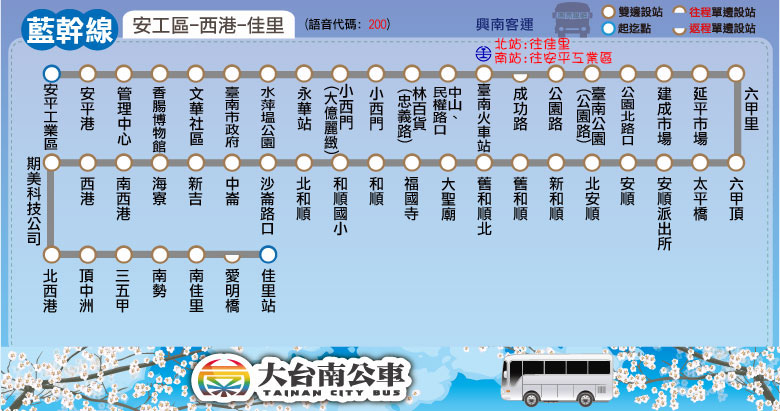
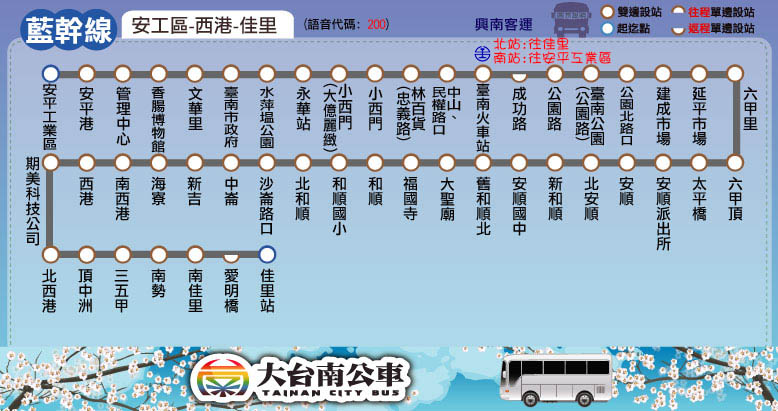
更新站位：藍幹線、橘12

Changed region(s): [[0.0, 0.0, 1.0, 1.0], [0.5553, 0.4964, 0.5861, 0.5255], [0.4319, 0.4964, 0.4627, 0.5255]]

diff --git a/route/fare_and_time/blue.js b/route/fare_and_time/blue.js
@@ -1,18 +1,16 @@
 blue_interval_name = ["安平<br />工業區","臺南","安順","舊和順","和順","中崙","海寮","西港","佳里"];
 blue_interval_stop = [
 ["安平工業區","安平港","管理中心","香腸博物館"], // 安平工業區
-["文華社區","臺南市政府","水萍塭公園","永華站","小西門(大億麗緻)","小西門","林百貨(忠義路)","中山、民權路口",
+["文華里","臺南市政府","水萍塭公園","永華站","小西門(大億麗緻)","小西門","林百貨(忠義路)","中山、民權路口",
 "臺南火車站","成功路","公園路","臺南公園(公園路)","公園北路口","建成市場","延平市場","六甲里","六甲頂"], // 臺南
 ["太平橋","安順派出所","安順","北安順"], // 安順
-["新和順","舊和順","舊和順北","大聖廟"], // 舊和順
+["新和順","安順國中","舊和順北","大聖廟"], // 舊和順
 ["福國寺","和順","和順國小","北和順","沙崙路口"], // 和順
 ["中崙"], // 中崙
 ["新吉","海寮"], // 海寮
 ["南西港","西港","期美科技公司","北西港","頂中洲"], // 西港
 ["三五甲","南勢","南佳里","愛明橋","佳里站"] // 佳里
 ];
-blue_stop_time_consume = [0,1,2,4,5,7,9,10,11,12,15,18,20,22,23,24,25,26,28,29,31,33,34,35,36,37,38,40,41,43,44,45,46,47,48,
-49,52,56,57,59,60,61,63,65,66,68,70];
 blue_fare = [
 [26],
 [26,26],

diff --git a/route/fare_and_time/orange_12.js b/route/fare_and_time/orange_12.js
@@ -15,7 +15,7 @@ orange_12_interval_stop = [
 ["竹林里","鹽行","南鹽行","洲子尾","大崎"], // 鹽行
 ["南臺科技大學","臺電配電中心"], // 南臺科大
 ["奇美醫院","大橋","臺南高工"], // 奇美醫院
-["中華、振興路口","中華、中華二路口","兵仔市","四份子"], // 兵仔市
+["中華、振興路口","中華、中華二路口","中華路、勝華街口","兵仔市","四份子"], // 兵仔市
 ["光明街口","成大醫院","成功大學","臺南公園(北門路)","臺南火車站","臺南公園(公園路)"] // 臺南
 ];
 orange_12_fare = [
